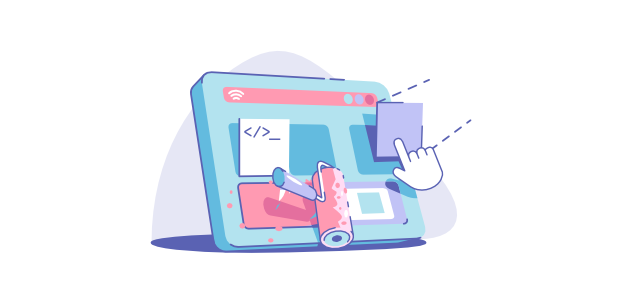
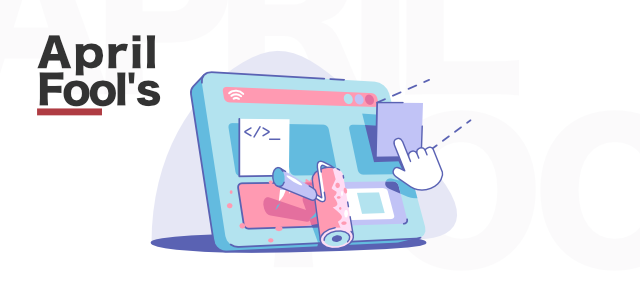
chore: Update metadata.html
Improved `og:image` workflow

Changed region(s): [[0.0312, 0.1216, 0.25, 0.3953]]

diff --git a/_includes/metadata.html b/_includes/metadata.html
@@ -37,11 +37,17 @@
 <meta property="twitter:title" content="{{ page.title }}" />
 {%- endif -%}
 <meta property="og:locale" content='{{ page.lang | append: '_CA' }}' />
-{%- if site.url -%}
-<meta property="og:url" content="{{ page.url | remove_first: '/' | remove_first: page.lang | prepend: site.urlalt[ page.lang ] }}" />
-{%- endif -%}
+<meta property="og:url" content="{{ site.urlalt[ page.lang ] }}{{ page.url | remove_first: '/' | remove_first: page.lang }}" />
 {%- if page.image -%}
-<meta property="og:image" content="{{ page.image.path }}" />
+	{%- capture ogimage -%}/images/thumbs/{{ page.date | date: "%F" | append: "-og" }}.png{%- endcapture -%}
+	{%- assign file_exists = site.static_files | where: "path", ogimage -%}
+	{%- if file_exists.size != 0 -%}
+<meta property="og:image" content="{{ site.urlalt[ page.lang ] }}{{ ogimage }}" />
+<meta property="twitter:image" content="{{ site.urlalt[ page.lang ] }}{{ ogimage }}" />
+	{%- else -%}
+<meta property="og:image" content="{{ site.urlalt[ page.lang ] }}/images/thumbs/{{ page.date | date: "%F" }}.png" />
+<meta property="twitter:image" content="{{ site.urlalt[ page.lang ] }}/images/thumbs/{{ page.date | date: "%F" }}.png" />
+	{%- endif -%}
 	{%- if page.image.height -%}
 <meta property="og:image:height" content="{{ page.image.height }}" />
 	{%- endif -%}
@@ -52,7 +58,6 @@
 <meta property="og:image:alt" content="{{ page.image.alt }}" />
 	{%- endif -%}
 <meta name="twitter:card" content="{{ page.twitter.card | default: site.twitter.card | default: "summary_large_image" }}" />
-<meta property="twitter:image" content="{{ page.image.path }}" />
   {%- else -%}
 <meta name="twitter:card" content="summary" />
 {%- endif -%}

diff --git a/fr/_posts/2022-04-01-nouvelle-conception.md b/fr/_posts/2022-04-01-nouvelle-conception.md
@@ -2,15 +2,8 @@
 altLangPage: "/2022/04/01/new-design"
 date: 2022-04-01
 description: "Nous vous avons entendu #GCNumérique. Le site Canada.ca a une toute nouvelle conception!"
-image:
-  path: "../../../../images/thumbs/2022-04-01.png"
-title: "Mise à jour de la conception du site Canada.ca"
+title: "Poisson d'avril : Mise à jour de la conception du site Canada.ca"
 ---
-
-<section class="alert alert-info">
-  <h2>Alerte d'information</h2>
-  <p>Cet article est un canular du poisson d’avril et ne contient pas de véritables recommandations de conception.</p>
-</section>
 
 Vous en avez assez de la conception simple et minimaliste (autrement dit «&nbsp;ennuyeuse&nbsp;») du site Canada.ca? Ne craignez point! Nous vous avons entendu #GCNumérique. Le site Canada.ca adopte une toute nouvelle conception!
 

diff --git a/en/_posts/2022-04-01-new-design.md b/en/_posts/2022-04-01-new-design.md
@@ -2,15 +2,8 @@
 altLangPage: "/2022/04/01/nouvelle-conception"
 date: 2022-04-01
 description: "We’ve heard you #GCDigital. Canada.ca is getting a brand-new design!"
-image:
-  path: ../../../../images/thumbs/2022-04-01.png
-title: "New design update for Canada.ca"
+title: "April Fool's: New design update for Canada.ca"
 ---
-
-<section class="alert alert-info">
-  <h3>Info alert</h3>
-  <p>This article was an April Fool’s hoax and does not contain real design recommendations.</p>
-</section>
 
 Tired of the simple, minimalist (aka ‘boring”) design of Canada.ca? Fear not! We’ve heard you #GCDigital. Canada.ca is getting a brand-new design!
 
